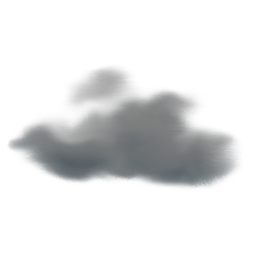
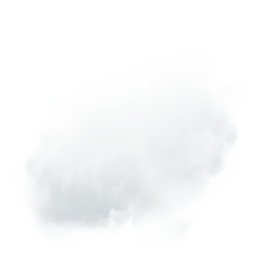
test more cloud with billboard

Changed region(s): [[0.0312, 0.25, 0.9375, 0.9062]]

diff --git a/js/clouds.js b/js/clouds.js
@@ -5,17 +5,46 @@ var createCloud = function() {
             "#ifdef GL_ES",
             "precision highp float;",
             "#endif",
-            "attribute vec3 Vertex;",
+            "attribute vec4 Vertex;",
             "attribute vec2 TexCoord0;",
 
             "varying vec2 TexCoord0Frag;",
-            "varying vec3 FragVertex;",
+            "varying vec4 FragVertex;",
 
             "uniform mat4 ModelViewMatrix;",
             "uniform mat4 ProjectionMatrix;",
             "uniform float scale;",
             "uniform float shrink;",
             "",
+
+
+            "uniform float radius;",
+            "vec4 position;",
+            "",
+            "vec4 ftransform() {",
+            "position = ModelViewMatrix * vec4((vec3(Vertex.xyz) * vec3(1.0, 1.0, shrink) ) *radius, 1.0);",
+            "return ProjectionMatrix * position;",
+            "}",
+            "",
+            "void main(void) {",
+            "vec4 pos = ftransform();",
+            "gl_Position = pos;",
+            "float depthNormalized = ( -position.z - gl_DepthRange.near)/gl_DepthRange.diff;",
+            "gl_PointSize = scale*100000.0/(depthNormalized);",
+            "FragVertex = Vertex;",
+            "}",
+        ].join('\n');
+
+        var fragmentshader = [
+            "#ifdef GL_ES",
+            "precision highp float;",
+            "#endif",
+            "vec4 fragColor;",
+            "uniform mat4 ModelViewMatrix;",
+            "uniform sampler2D Texture0;",
+            "varying vec2 TexCoord0Frag;",
+            "varying vec4 FragVertex;",
+            "uniform float opacity;",
 
             "//",
             "// Description : Array and textureless GLSL 2D/3D/4D simplex ",
@@ -130,39 +159,17 @@ var createCloud = function() {
             "  return 0.5+0.5*f;",
             "}",
 
-            "uniform float radius;",
-            "vec4 position;",
-            "",
-            "vec4 ftransform() {",
-            "position = ModelViewMatrix * vec4((Vertex * vec3(1.0, 1.0, shrink) ) *radius, 1.0);",
-            "return ProjectionMatrix * position;",
-            "}",
-            "",
             "void main(void) {",
-            "vec4 pos = ftransform();",
-            "gl_Position = pos;",
-            "float depthNormalized = ( -position.z - gl_DepthRange.near)/gl_DepthRange.diff;",
-            "gl_PointSize = scale*100000.0/(depthNormalized);",
-            "FragVertex = Vertex;",
-            "}",
-        ].join('\n');
-
-        var fragmentshader = [
-            "#ifdef GL_ES",
-            "precision highp float;",
-            "#endif",
-            "vec4 fragColor;",
-            "uniform mat4 ModelViewMatrix;",
-            "uniform sampler2D Texture0;",
-            "varying vec2 TexCoord0Frag;",
-            "varying vec3 FragVertex;",
-            "uniform float opacity;",
-
-            "void main(void) {",
-            "vec4 texel = texture2D(Texture0, vec2(gl_PointCoord.x, 1.0-gl_PointCoord.y));",
+            "vec2 center = vec2(0.5, 0.5);",
+            "vec2 uvCenter = vec2(gl_PointCoord.x, 1.0-gl_PointCoord.y) - center;",
+            "vec2 uv;",
+            "float angle = FragVertex.w*2.0*3.14;",
+            "uv.x = cos(angle)*uvCenter.x - sin(angle)*uvCenter.y;",
+            "uv.y = sin(angle)*uvCenter.x + cos(angle)*uvCenter.y;",
+            "vec4 texel = texture2D(Texture0, uv+center);",
             "// darker under",
-            "if (FragVertex.z < 0.0) {",
-            "   texel.xyz *= -FragVertex.z;",
+            "if (FragVertex.z < 0.0 && gl_PointCoord.y>0.5) {",
+            "   texel.xyz *= (1.0-((gl_PointCoord.y-0.5)*2.0));",
             "}",
             "texel.xyz *= texel.w * opacity;",
             "gl_FragColor = vec4(texel);",
@@ -184,11 +191,12 @@ var createCloud = function() {
         var vec = [];
         osg.Vec3.normalize([x, y, z], vec);
         osg.Vec3.mult(vec, Math.random(), vec);
+        vec[3] = Math.random();
         return vec;
     };
     var geom = new osg.Geometry();
     var vertexes = [];
-    var nbVertexes = 500;
+    var nbVertexes = 5;
     for (var i = 0, l = nbVertexes; i < l; i++) {
         var vec = getRand();
         vertexes.push(vec);
@@ -201,11 +209,12 @@ var createCloud = function() {
             array[index++] = vertexes[i][0];
             array[index++] = vertexes[i][1];
             array[index++] = vertexes[i][2];
+            array[index++] = vertexes[i][3];
         }
         bufferArray.dirty();
     };
 
-    geom.getAttributes().Vertex = new osg.BufferArray(osg.BufferArray.ARRAY_BUFFER, new Array(nbVertexes*3), 3 );
+    geom.getAttributes().Vertex = new osg.BufferArray(osg.BufferArray.ARRAY_BUFFER, new Array(nbVertexes*4), 4 );
     geom.getPrimitives().push(new osg.DrawArrays(osg.PrimitiveSet.POINTS, 0, nbVertexes));
 
     syncArray(geom.getAttributes().Vertex, vertexes);
@@ -222,6 +231,7 @@ var createCloud = function() {
     stateset.setTextureAttributeAndMode(0, texture);
     stateset.setAttributeAndMode(new osg.BlendFunc('SRC_ALPHA', 'ONE_MINUS_SRC_ALPHA'));
     //stateset.setAttributeAndMode(new osg.BlendFunc('ONE', 'ONE'));
+    //stateset.setAttributeAndMode(new osg.BlendFunc('SRC_COLOR', 'ONE_MINUS_SRC_ALPHA'));
     var depth = new osg.Depth();
     depth.setWriteMask(false);
     stateset.setAttributeAndMode(depth);
@@ -278,6 +288,13 @@ var createCloud = function() {
         max: 5.0,
         step: 0.02,
         value: function() { return [1.0]; }
+    };
+
+    params.types.float.params['turbulenceExponent'] = {
+        min: 0.0,
+        max: 5.0,
+        step: 0.001,
+        value: function() { return [0.002]; }
     };
 
     grp.accept(params);
